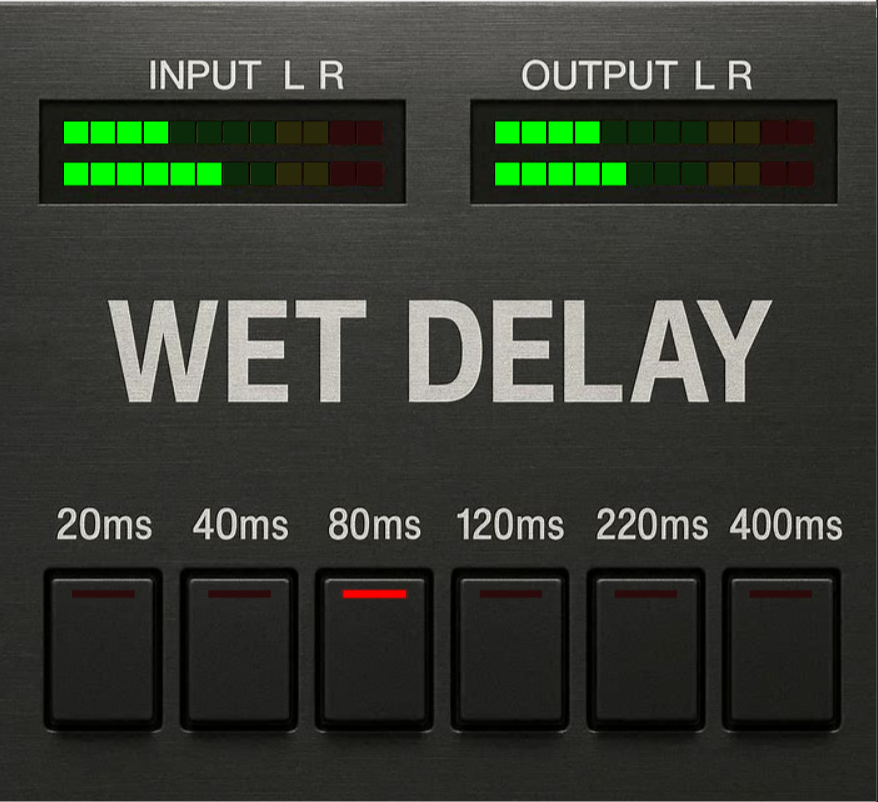
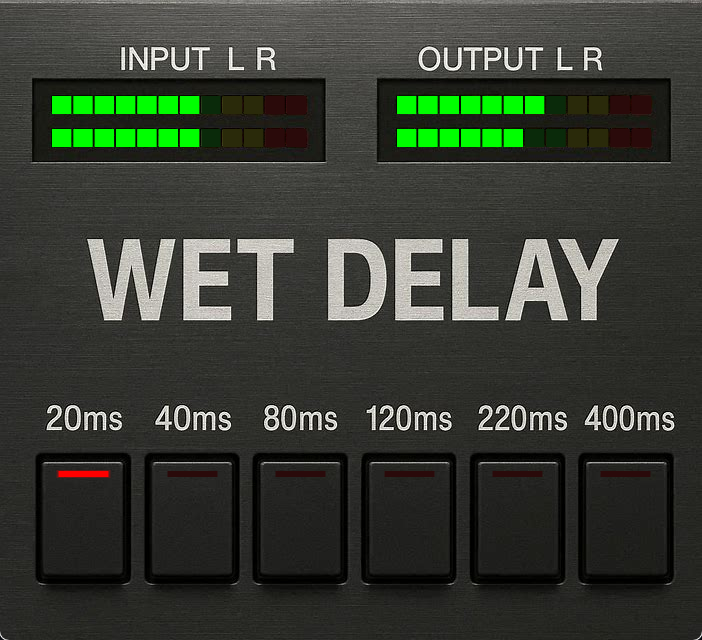
Meters read in dB against the scale, not linearly across the segments
They mapped amplitude LINEARLY, which reads far lower than the signal actually
is: half the strip covered -6 dBFS to 0, so -20 dBFS lit one segment of twelve
and anything below -24 lit none at all. A player reads that as no signal on a
perfectly healthy track.

One segment per equal step in dB now, -48 to +18. Off by default in the view, so
the range has to be declared - it is, in the .uidesc beside every meter.

-6 dBFS   6/12 -> 8/12
-12 dBFS  3/12 -> 7/12
-20 dBFS  1/12 -> 5/12
-30 dBFS  0/12 -> 4/12

Found while photographing WetCompressor, whose panel prints a dB scale it was
contradicting. The other three have no printed scale, so the same map was merely
pessimistic rather than self-contradicting - but it was wrong in all four.

diff --git a/WetDelay/source/customviewcreator.cpp b/WetDelay/source/customviewcreator.cpp
@@ -14,6 +14,8 @@ namespace Yonie {
 static const std::string kAttrNumSegments = "num-segments";
 static const std::string kAttrSegmentGap = "segment-gap";
 static const std::string kAttrHorizontal = "horizontal";
+static const std::string kAttrDbMin = "db-min";
+static const std::string kAttrDbMax = "db-max";
 static const std::string kAttrButtonIndex = "button-index";
 static const std::string kAttrActiveColor = "active-color";
 static const std::string kAttrInactiveColor = "inactive-color";
@@ -55,6 +57,11 @@ bool LEDMeterViewCreator::apply(CView* view, const UIAttributes& attributes,
     bool boolValue;
     if (attributes.getBooleanAttribute(kAttrHorizontal, boolValue))
         meterView->setHorizontal(boolValue);
+
+    double dbLo = 0.0, dbHi = 0.0;
+    if (attributes.getDoubleAttribute(kAttrDbMin, dbLo) &&
+        attributes.getDoubleAttribute(kAttrDbMax, dbHi))
+        meterView->setDbRange(dbLo, dbHi);
     
     return true;
 }
@@ -65,6 +72,8 @@ bool LEDMeterViewCreator::getAttributeNames(StringList& attributeNames) const
     attributeNames.emplace_back(kAttrNumSegments);
     attributeNames.emplace_back(kAttrSegmentGap);
     attributeNames.emplace_back(kAttrHorizontal);
+    attributeNames.emplace_back(kAttrDbMin);
+    attributeNames.emplace_back(kAttrDbMax);
     return true;
 }
 
@@ -77,6 +86,8 @@ IViewCreator::AttrType LEDMeterViewCreator::getAttributeType(const std::string& 
         return kFloatType;
     if (attributeName == kAttrHorizontal)
         return kBooleanType;
+    if (attributeName == kAttrDbMin || attributeName == kAttrDbMax)
+        return kFloatType;
     return kUnknownType;
 }
 

diff --git a/WetDelay/source/ledmeterview.cpp b/WetDelay/source/ledmeterview.cpp
@@ -4,6 +4,8 @@
 
 #include "ledmeterview.h"
 
+#include <cmath>
+
 using namespace VSTGUI;
 
 namespace Yonie {
@@ -18,15 +20,35 @@ LEDMeterView::LEDMeterView(const CRect& size)
 }
 
 //------------------------------------------------------------------------
-void LEDMeterView::draw(CDrawContext* context)
+int LEDMeterView::litSegments() const
 {
-    // Get normalized value (0.0 to 1.0)
-    float level = getValueNormalized();
-    
-    // Calculate how many segments should be lit
-    int litCount = static_cast<int>(level * numSegments + 0.5f);
+    const float level = getValueNormalized();
+
+    int litCount;
+    if (dbScale)
+    {
+        // One segment per equal step in dB between dbLo and dbHi, so the strip
+        // reads the way a meter is expected to read.
+        if (level <= 1e-6f)
+            return 0;
+        const double db = 20.0 * std::log10(static_cast<double>(level));
+        const double step = (dbHi - dbLo) / (numSegments - 1);
+        litCount = static_cast<int>(std::floor((db - dbLo) / step)) + 1;
+    }
+    else
+    {
+        litCount = static_cast<int>(level * numSegments + 0.5f);
+    }
+
     if (litCount > numSegments) litCount = numSegments;
     if (litCount < 0) litCount = 0;
+    return litCount;
+}
+
+//------------------------------------------------------------------------
+void LEDMeterView::draw(CDrawContext* context)
+{
+    const int litCount = litSegments();
     
     // Draw each segment
     for (int i = 0; i < numSegments; i++)

diff --git a/WetDelay/source/ledmeterview.h b/WetDelay/source/ledmeterview.h
@@ -27,6 +27,23 @@ public:
     void setNumSegments(int num) { numSegments = num; }
     void setSegmentGap(VSTGUI::CCoord gap) { segmentGap = gap; }
     void setHorizontal(bool horiz) { isHorizontal = horiz; }
+
+    // Map the incoming value as dB rather than linearly across the segments.
+    //
+    // Linear is what this did, and it makes the meter read far lower than the
+    // signal actually is: half the strip covers -6 dBFS to 0, so -20 dBFS lights
+    // ONE segment of twelve and anything below -24 lights none at all. A player
+    // reads that as "no signal" when the track is perfectly healthy.
+    //
+    // Off by default, so a meter that has not been given a range keeps the old
+    // behaviour.
+    void setDbRange(double lo, double hi) { dbLo = lo; dbHi = hi; dbScale = hi > lo; }
+    bool hasDbRange() const { return dbScale; }
+    double dbMin() const { return dbLo; }
+    double dbMax() const { return dbHi; }
+
+    // Number of segments lit for the current value.
+    int litSegments() const;
     
     // Custom view class name for VSTGUI factory
     CLASS_METHODS(LEDMeterView, CControl)
@@ -39,6 +56,8 @@ protected:
     int numSegments = 12;
     VSTGUI::CCoord segmentGap = 2;
     bool isHorizontal = true;
+    bool dbScale = false;
+    double dbLo = -48.0, dbHi = 18.0;
     
     // Color definitions for 80's LED look
     // Green zone (segments 0-7)
